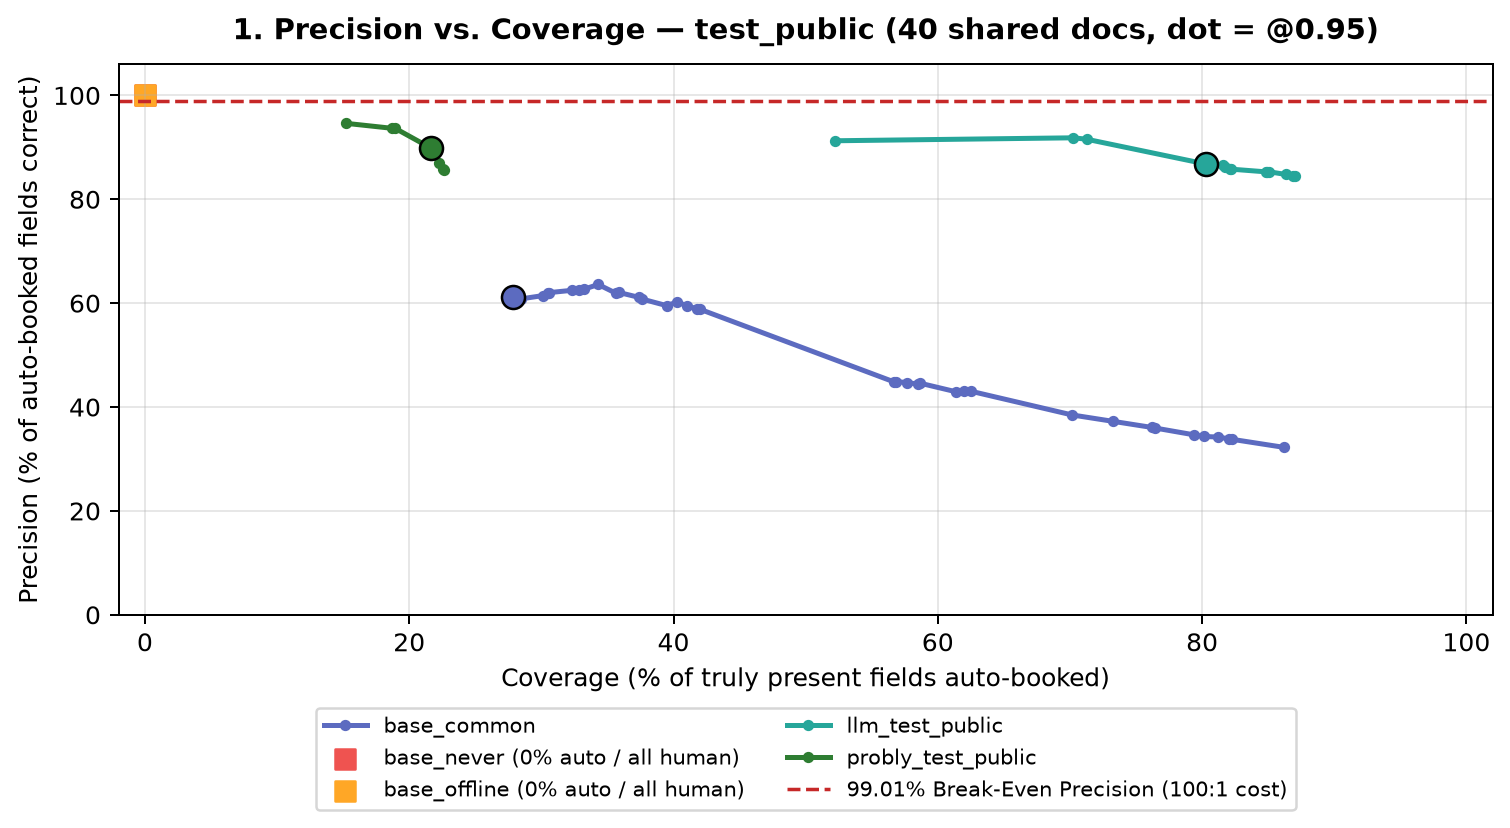
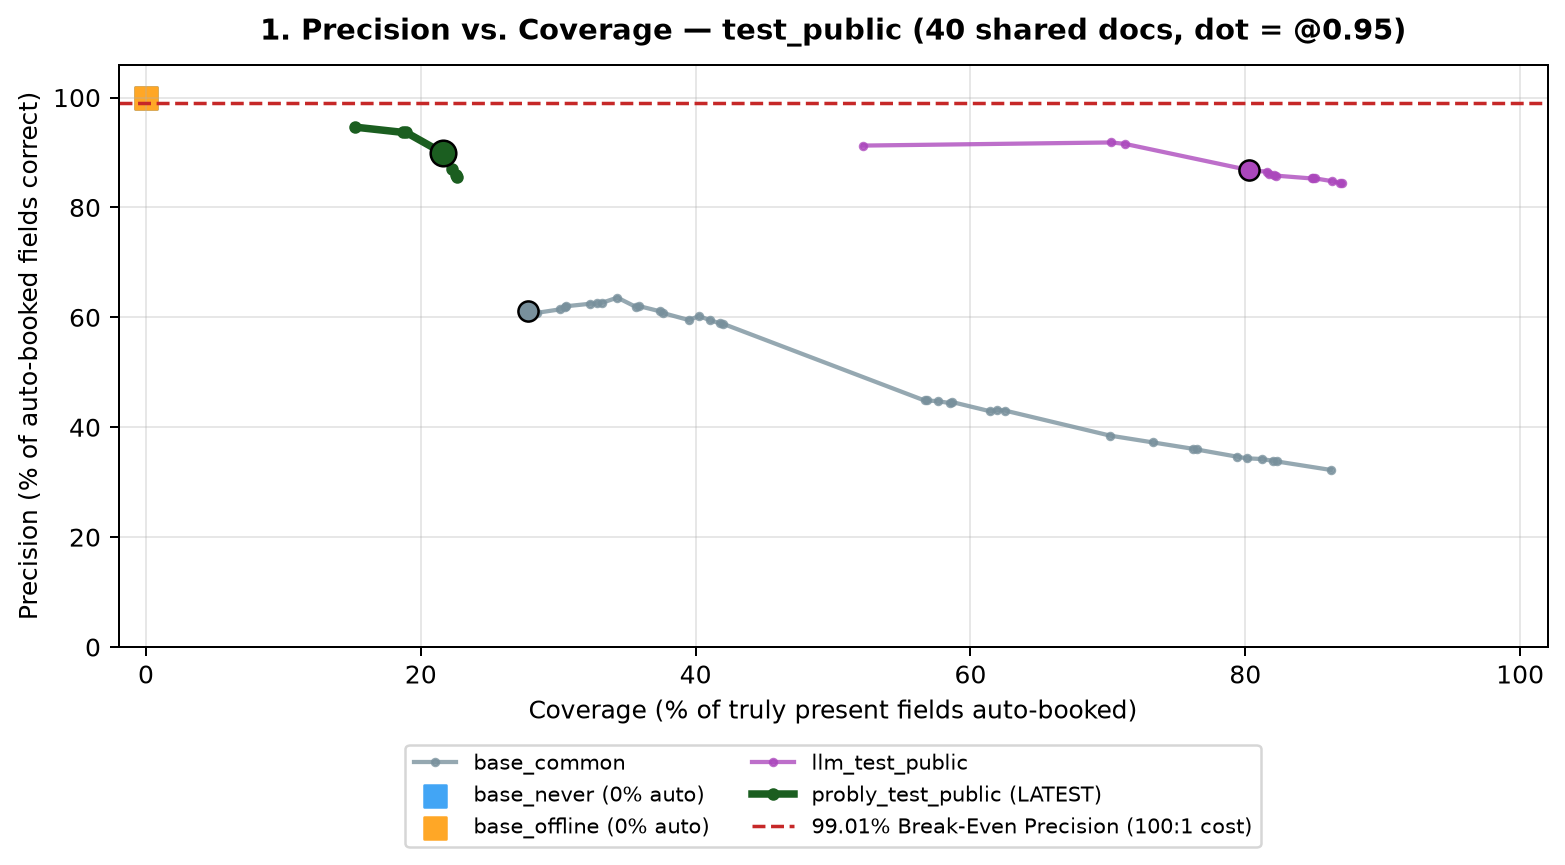
update test plots + compare_results

diff --git a/Project_1/compare_results.py b/Project_1/compare_results.py
@@ -1,7 +1,7 @@
 #!/usr/bin/env python3
 """
-Compares all valid runs in results/*.jsonl on identical doc_id intersections
-and generates exactly 4 clean, slide-ready matplotlib plots in results/plots/.
+Compares all probly versions (probly, probly2..probly5) alongside LLM & non-AI baselines
+on identical doc_id intersections, highlighting the newest run (e.g. probly5).
 """
 from __future__ import annotations
 
@@ -21,7 +21,7 @@ _spec = importlib.util.spec_from_file_location("official_score", HERE / "5_score
 S = importlib.util.module_from_spec(_spec)
 _spec.loader.exec_module(S)
 
-PALETTE = ["#5c6bc0", "#ef5350", "#ffa726", "#26a69a", "#2e7d32", "#8e24aa", "#00838f"]
+PALETTE = ["#78909c", "#42a5f5", "#ffa726", "#ab47bc", "#26a69a", "#ef5350", "#1b5e20"]
 
 
 def load_gold_map(path: Path) -> dict[str, dict]:
@@ -32,8 +32,10 @@ def load_gold_map(path: Path) -> dict[str, dict]:
 
 def discover_pred_files(results_dir: Path) -> list[Path]:
     files = []
-    for p in sorted(results_dir.glob("*.jsonl")):
-        if p.name.endswith((".diagnostics.jsonl", ".samples.jsonl")):
+    for p in sorted(results_dir.rglob("*.jsonl")):
+        if any(part in ("split", "plots") for part in p.parts):
+            continue
+        if p.name.endswith((".diagnostics.jsonl", ".samples.jsonl")) or p.name.startswith(("release_", "final_dev_input")):
             continue
         if p.stat().st_size == 0:
             continue
@@ -51,24 +53,35 @@ def resolve_threshold(cli_threshold: float | None) -> float:
     return 0.95
 
 
-def common_subset(runs: dict[str, dict], gold_map: dict[str, dict], skip_tiny_smoke: bool = True) -> tuple[set[str], dict[str, dict]]:
-    filtered = dict(runs)
-    if skip_tiny_smoke and len(filtered) > 1:
-        non_smoke = {k: v for k, v in filtered.items() if len(v) > 15}
-        if non_smoke:
-            filtered = non_smoke
-    if not filtered:
+def find_newest_probly(names: list[str]) -> str | None:
+    probly_names = [n for n in names if "probly" in n.lower()]
+    return sorted(probly_names)[-1] if probly_names else None
+
+
+def align_all_runs(runs: dict[str, dict], gold_map: dict[str, dict]) -> tuple[set[str], dict[str, dict]]:
+    """Aligns all runs on the exact shared doc_ids of the newest probly run (or all runs)."""
+    if not runs:
         return set(), {}
-    shared_ids = set(gold_map.keys())
-    for preds in filtered.values():
-        shared_ids &= set(preds.keys())
-    aligned = {name: {did: preds[did] for did in shared_ids} for name, preds in filtered.items()}
-    return shared_ids, aligned
+    newest = find_newest_probly(list(runs.keys()))
+    target_ids = set(runs[newest].keys()) & set(gold_map.keys()) if newest else set(gold_map.keys())
+
+    # Keep all runs that cover at least those target_ids; otherwise intersect across all runs
+    covering = {k: v for k, v in runs.items() if target_ids.issubset(v.keys())}
+    if len(covering) >= 2:
+        aligned = {k: {did: v[did] for did in target_ids} for k, v in covering.items()}
+        return target_ids, aligned
+
+    shared = set(gold_map.keys())
+    for v in runs.values():
+        shared &= set(v.keys())
+    aligned = {k: {did: v[did] for did in shared} for k, v in runs.items()}
+    return shared, aligned
 
 
 def score_all(gold_subset: list[dict], aligned_runs: dict[str, dict], threshold: float) -> dict[str, dict]:
     out = {}
-    for name, preds in aligned_runs.items():
+    for name in sorted(aligned_runs.keys()):
+        preds = aligned_runs[name]
         out[name] = {
             "e100": S.score(gold_subset, preds, threshold=threshold, error_cost=100.0),
             "e20": S.score(gold_subset, preds, threshold=threshold, error_cost=20.0),
@@ -77,7 +90,7 @@ def score_all(gold_subset: list[dict], aligned_runs: dict[str, dict], threshold:
     return out
 
 
-def print_table(title: str, n_docs: int, scored: dict[str, dict], threshold: float):
+def print_table(title: str, n_docs: int, scored: dict[str, dict], threshold: float, newest: str | None):
     print(f"\n## {title} ({n_docs} shared docs, threshold = {threshold:.2f})\n")
     print("| Method | Accepted | Correct | Wrong | Halluc. | Precision | Coverage | Saving (100x) | Saving (20x) | Saving (500x) |")
     print("| --- | ---: | ---: | ---: | ---: | ---: | ---: | ---: | ---: | ---: |")
@@ -85,31 +98,38 @@ def print_table(title: str, n_docs: int, scored: dict[str, dict], threshold: flo
         res = bundle["e100"]
         d = res["declared"]
         prec = f"{d['precision']*100:.1f}%" if d["accepted"] > 0 else "n/a"
+        label = f"**{name} (LATEST)**" if name == newest else f"`{name}`"
         print(
-            f"| `{name}` | {d['accepted']} | {res['at_threshold']['correct']} | {d['wrong']} | "
+            f"| {label} | {d['accepted']} | {res['at_threshold']['correct']} | {d['wrong']} | "
             f"{d['hallucinated']} | {prec} | {d['coverage']*100:.1f}% | "
             f"**{d['net_saving_pct']*100:.1f}%** | {bundle['e20']['declared']['net_saving_pct']*100:.1f}% | "
             f"{bundle['e500']['declared']['net_saving_pct']*100:.1f}% |"
         )
 
 
-def plot_precision_coverage(scored: dict[str, dict], title: str, out_path: Path, threshold: float):
+def plot_precision_coverage(scored: dict[str, dict], title: str, out_path: Path, threshold: float, newest: str | None):
     import matplotlib.pyplot as plt
 
-    fig, ax = plt.subplots(figsize=(8.5, 4.8), dpi=180)
+    fig, ax = plt.subplots(figsize=(8.8, 5.0), dpi=180)
     for i, (name, bundle) in enumerate(scored.items()):
         res = bundle["e100"]
-        color = PALETTE[i % len(PALETTE)]
+        is_latest = name == newest
+        color = "#1b5e20" if is_latest else PALETTE[i % (len(PALETTE) - 1)]
+        lw = 3.0 if is_latest else 1.7
+        alpha = 1.0 if is_latest else 0.78
+        label = f"{name} (LATEST)" if is_latest else name
+
         pts = [p for p in res["curve"] if p["accepted"] > 0]
         if not pts:
-            ax.scatter([0.0], [100.0], color=color, s=70, marker="s", label=f"{name} (0% auto / all human)")
+            ax.scatter([0.0], [100.0], color=color, s=75, marker="s", label=f"{label} (0% auto)")
             continue
         cov = [p["coverage"] * 100 for p in pts]
         prec = [p["precision"] * 100 for p in pts]
-        ax.plot(cov, prec, marker="o", markersize=3.5, linewidth=2.0, color=color, label=name)
+        ax.plot(cov, prec, marker="o", markersize=4 if is_latest else 2.8, linewidth=lw, alpha=alpha, color=color, label=label, zorder=5 if is_latest else 3)
+
         d = res["declared"]
         if d["accepted"] > 0:
-            ax.scatter([d["coverage"] * 100], [d["precision"] * 100], color=color, edgecolor="black", s=85, zorder=6)
+            ax.scatter([d["coverage"] * 100], [d["precision"] * 100], color=color, edgecolor="black", s=105 if is_latest else 65, zorder=7)
 
     ax.axhline(99.01, color="#c62828", linestyle="--", linewidth=1.4, label="99.01% Break-Even Precision (100:1 cost)")
     ax.set_title(title, fontsize=11.5, fontweight="bold", pad=10)
@@ -124,15 +144,16 @@ def plot_precision_coverage(scored: dict[str, dict], title: str, out_path: Path,
     plt.close(fig)
 
 
-def plot_net_saving(scored: dict[str, dict], title: str, out_path: Path, threshold: float):
+def plot_net_saving(scored: dict[str, dict], title: str, out_path: Path, newest: str | None):
     import matplotlib.pyplot as plt
 
-    fig, ax = plt.subplots(figsize=(8.2, 4.4), dpi=180)
+    fig, ax = plt.subplots(figsize=(8.6, 4.5), dpi=180)
     names = list(scored.keys())
+    labels = [f"{n}\n(LATEST)" if n == newest else n for n in names]
     vals = [scored[n]["e100"]["declared"]["net_saving_pct"] * 100 for n in names]
     colors = ["#2e7d32" if v > 0 else ("#607d8b" if abs(v) < 1e-9 else "#c62828") for v in vals]
 
-    bars = ax.bar(names, vals, color=colors, width=0.52, edgecolor="#222222", linewidth=0.6)
+    bars = ax.bar(labels, vals, color=colors, width=0.52, edgecolor="#222222", linewidth=0.7)
     ax.axhline(0, color="#111111", linewidth=1.1)
 
     lo, hi = min(vals + [0.0]), max(vals + [0.0])
@@ -142,23 +163,24 @@ def plot_net_saving(scored: dict[str, dict], title: str, out_path: Path, thresho
     for bar, v in zip(bars, vals):
         offset = 0.03 * span if v >= 0 else -0.03 * span
         va = "bottom" if v >= 0 else "top"
-        ax.text(bar.get_x() + bar.get_width() / 2, v + offset, f"{v:.1f}%", ha="center", va=va, fontsize=9, fontweight="bold")
+        ax.text(bar.get_x() + bar.get_width() / 2, v + offset, f"{v:.1f}%", ha="center", va=va, fontsize=8.8, fontweight="bold")
 
     ax.set_title(title, fontsize=11.5, fontweight="bold", pad=10)
     ax.set_ylabel("Net Saving vs. Manual Review (%)", fontsize=10)
-    plt.xticks(rotation=15, ha="right", fontsize=9.5)
+    plt.xticks(rotation=18, ha="right", fontsize=9)
     ax.grid(True, axis="y", alpha=0.3)
     fig.tight_layout()
     fig.savefig(out_path, bbox_inches="tight")
     plt.close(fig)
 
 
-def plot_cost_sensitivity(scored: dict[str, dict], title: str, out_path: Path):
+def plot_cost_sensitivity(scored: dict[str, dict], title: str, out_path: Path, newest: str | None):
     import matplotlib.pyplot as plt
     import numpy as np
 
-    fig, ax = plt.subplots(figsize=(8.5, 4.5), dpi=180)
+    fig, ax = plt.subplots(figsize=(8.8, 4.6), dpi=180)
     names = list(scored.keys())
+    labels = [f"{n}*" if n == newest else n for n in names]
     x = np.arange(len(names))
     w = 0.25
 
@@ -166,7 +188,6 @@ def plot_cost_sensitivity(scored: dict[str, dict], title: str, out_path: Path):
     v100 = [scored[n]["e100"]["declared"]["net_saving_pct"] * 100 for n in names]
     v500 = [scored[n]["e500"]["declared"]["net_saving_pct"] * 100 for n in names]
 
-    # Clip extreme negative bars at -250% for readability while annotating true values
     clip_min = -250.0
     ax.bar(x - w, [max(v, clip_min) for v in v20], width=w, color="#42a5f5", label="Error Cost = 20x (95.2% break-even)")
     ax.bar(x, [max(v, clip_min) for v in v100], width=w, color="#ef5350", label="Error Cost = 100x (99.0% break-even)")
@@ -175,11 +196,11 @@ def plot_cost_sensitivity(scored: dict[str, dict], title: str, out_path: Path):
     ax.axhline(0, color="#111111", linewidth=1.1)
     ax.set_ylim(clip_min - 35, max(max(v20 + v100 + v500 + [10.0]) + 25, 30))
     ax.set_xticks(x)
-    ax.set_xticklabels(names, rotation=15, ha="right", fontsize=9.5)
+    ax.set_xticklabels(labels, rotation=18, ha="right", fontsize=9)
     ax.set_ylabel("Net Saving % (clipped at -250%)", fontsize=9.5)
     ax.set_title(title, fontsize=11.5, fontweight="bold", pad=10)
     ax.grid(True, axis="y", alpha=0.3)
-    ax.legend(loc="upper center", bbox_to_anchor=(0.5, -0.16), ncol=3, frameon=True, fontsize=8.2)
+    ax.legend(loc="upper center", bbox_to_anchor=(0.5, -0.17), ncol=3, frameon=True, fontsize=8.2)
     fig.tight_layout()
     fig.savefig(out_path, bbox_inches="tight")
     plt.close(fig)
@@ -191,7 +212,6 @@ def main():
     a = ap.parse_args()
     threshold = resolve_threshold(a.threshold)
 
-    # Remove old cluttered plots first
     PLOTS_DIR.mkdir(parents=True, exist_ok=True)
     for old in PLOTS_DIR.glob("*.png"):
         old.unlink()
@@ -205,51 +225,60 @@ def main():
         if not preds:
             continue
         ids = set(preds.keys())
+        key = path.stem if path.parent == RESULTS_DIR else f"{path.parent.name}/{path.stem}"
         if ids.issubset(test_gold.keys()):
-            test_runs[path.stem] = preds
+            test_runs[key] = preds
         elif ids.issubset(dev_gold.keys()):
-            dev_runs[path.stem] = preds
+            dev_runs[key] = preds
 
-    # 1. Unified test_public comparison (all methods on exact shared docs -> 3 plots)
-    t_ids, t_aligned = common_subset(test_runs, test_gold, skip_tiny_smoke=True)
+    print(f"Found dev runs: {list(dev_runs.keys())}")
+    print(f"Found test_public runs: {list(test_runs.keys())}")
+
+    # 1. test_public comparison (all versions aligned to newest probly run)
+    t_ids, t_aligned = align_all_runs(test_runs, test_gold)
     if t_ids:
+        newest_t = find_newest_probly(list(t_aligned.keys()))
         t_gold_sub = [test_gold[did] for did in sorted(t_ids)]
         t_scored = score_all(t_gold_sub, t_aligned, threshold)
-        print_table("Held-Out test_public Comparison (All Methods Aligned)", len(t_ids), t_scored, threshold)
+        print_table("Held-Out test_public Comparison (All Versions)", len(t_ids), t_scored, threshold, newest_t)
 
         plot_precision_coverage(
             t_scored,
             f"1. Precision vs. Coverage — test_public ({len(t_ids)} shared docs, dot = @{threshold:.2f})",
             PLOTS_DIR / "1_test_precision_coverage.png",
             threshold,
+            newest_t,
         )
         plot_net_saving(
             t_scored,
             f"2. Net Saving vs. Manual Review — test_public ({len(t_ids)} docs, @{threshold:.2f})",
             PLOTS_DIR / "2_test_net_saving.png",
-            threshold,
+            newest_t,
         )
         plot_cost_sensitivity(
             t_scored,
             f"3. Error-Cost Sensitivity (20x / 100x / 500x) — test_public ({len(t_ids)} docs, @{threshold:.2f})",
             PLOTS_DIR / "3_test_error_cost_sensitivity.png",
+            newest_t,
         )
 
-    # 2. Unified dev comparison (llm_dev vs probly_dev on exact shared docs -> 1 plot)
-    d_ids, d_aligned = common_subset(dev_runs, dev_gold, skip_tiny_smoke=True)
+    # 2. dev comparison (all probly / llm versions aligned to newest probly run)
+    d_ids, d_aligned = align_all_runs(dev_runs, dev_gold)
     if d_ids:
+        newest_d = find_newest_probly(list(d_aligned.keys()))
         d_gold_sub = [dev_gold[did] for did in sorted(d_ids)]
         d_scored = score_all(d_gold_sub, d_aligned, threshold)
-        print_table("Dev Set Progression (All Methods Aligned)", len(d_ids), d_scored, threshold)
+        print_table("Dev Set Progression (probly1..probly5)", len(d_ids), d_scored, threshold, newest_d)
 
         plot_precision_coverage(
             d_scored,
-            f"4. Dev Set Precision vs. Coverage ({len(d_ids)} shared docs, dot = @{threshold:.2f})",
+            f"4. Dev Progression: Precision vs. Coverage ({len(d_ids)} shared docs, dot = @{threshold:.2f})",
             PLOTS_DIR / "4_dev_precision_coverage.png",
             threshold,
+            newest_d,
         )
 
-    print("\nGenerated 4 clean plots in results/plots/:")
+    print("\nSaved 4 clean plots in results/plots/:")
     for p in sorted(PLOTS_DIR.glob("*.png")):
         print(" -", p)
 
